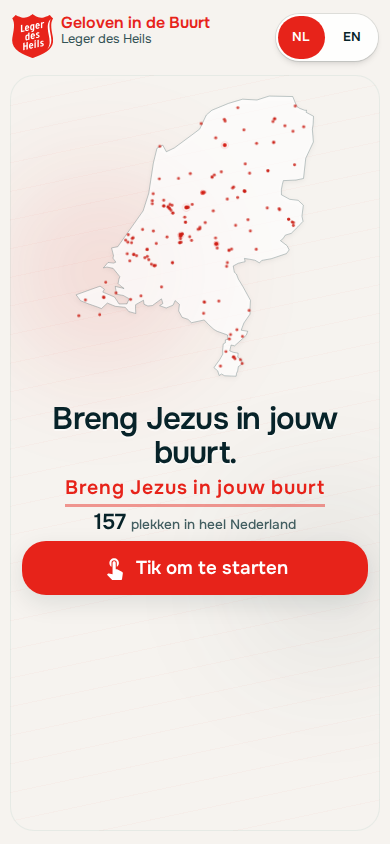
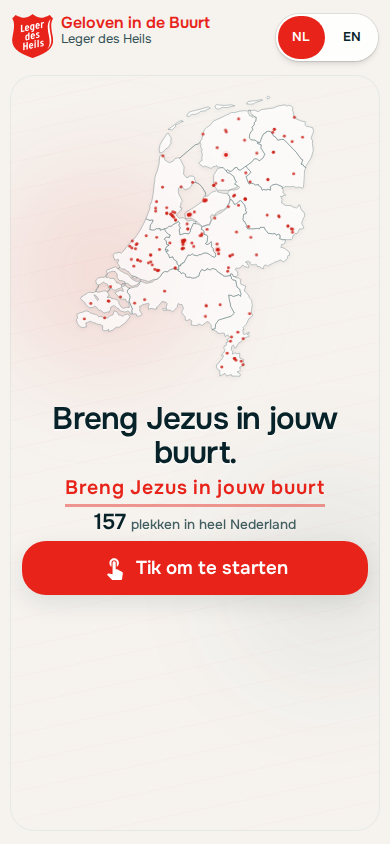
Accurate Netherlands attract map from CBS province boundaries
Generate a multi-polygon land outline (Wadden, IJsselmeer cutouts, Zeeland)
from CBS provincies GeoJSON with Douglas-Peucker simplification (~21 KB).
Use fill-rule evenodd; verify 157 dots with 0 strict failures at coastal
tolerance. Add generate-nl-outline and verify-nl-dots-on-land scripts.

Changed region(s): [[0.1846, 0.0924, 0.8, 0.4621]]

diff --git a/src/pages/buurt/nl-map.ts b/src/pages/buurt/nl-map.ts
@@ -10,8 +10,13 @@ type Bounds = {
   maxLat: number;
 };
 
+type OutlinePolygon = {
+  outer: [number, number][];
+  holes: [number, number][][];
+};
+
 const bounds = outlineData.bounds as Bounds;
-const ring = outlineData.ring as [number, number][];
+const polygons = outlineData.polygons as OutlinePolygon[];
 
 export function projectNl(
   lat: number,
@@ -31,9 +36,10 @@ export function projectNl(
   return { x, y };
 }
 
-export function netherlandsOutlinePath(
-  width = NL_VIEW.width,
-  height = NL_VIEW.height,
+function ringToPath(
+  ring: [number, number][],
+  width: number,
+  height: number,
 ): string {
   return ring
     .map(([lon, lat], index) => {
@@ -42,6 +48,20 @@ export function netherlandsOutlinePath(
     })
     .join(" ")
     .concat(" Z");
+}
+
+export function netherlandsOutlinePath(
+  width = NL_VIEW.width,
+  height = NL_VIEW.height,
+): string {
+  const parts: string[] = [];
+  for (const poly of polygons) {
+    parts.push(ringToPath(poly.outer, width, height));
+    for (const hole of poly.holes) {
+      parts.push(ringToPath(hole, width, height));
+    }
+  }
+  return parts.join(" ");
 }
 
 export function projectLocations(

diff --git a/src/pages/buurt/AttractScreen.tsx b/src/pages/buurt/AttractScreen.tsx
@@ -121,6 +121,7 @@ export function AttractScreen({
           </defs>
           <path
             className="kiosk-attract-map-fill"
+            fillRule="evenodd"
             filter="url(#kiosk-map-soft-shadow)"
             d={outlinePath}
           />
